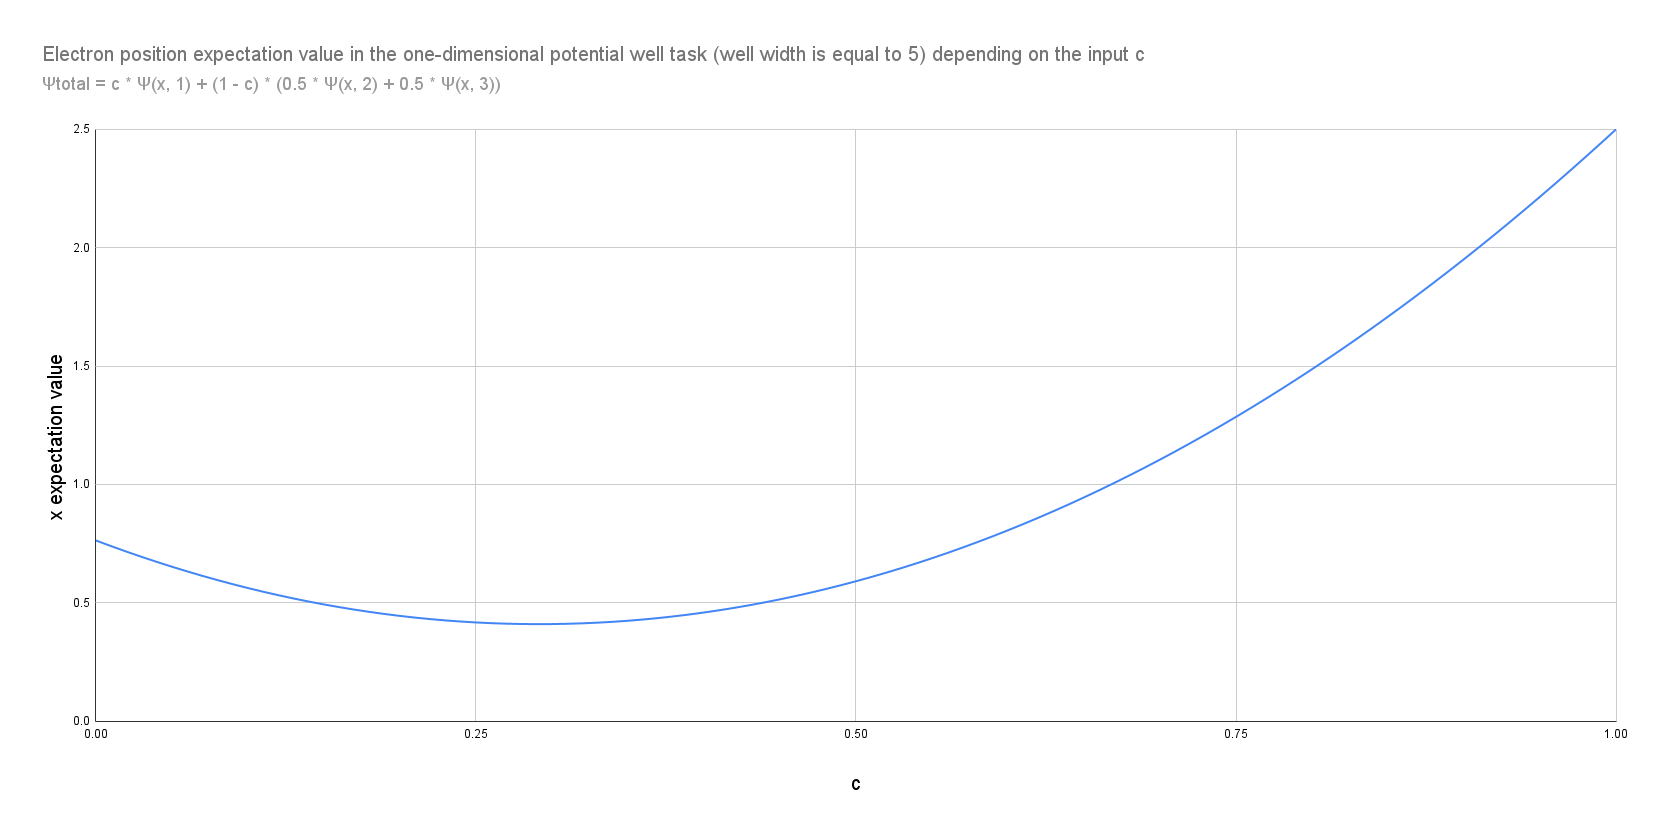
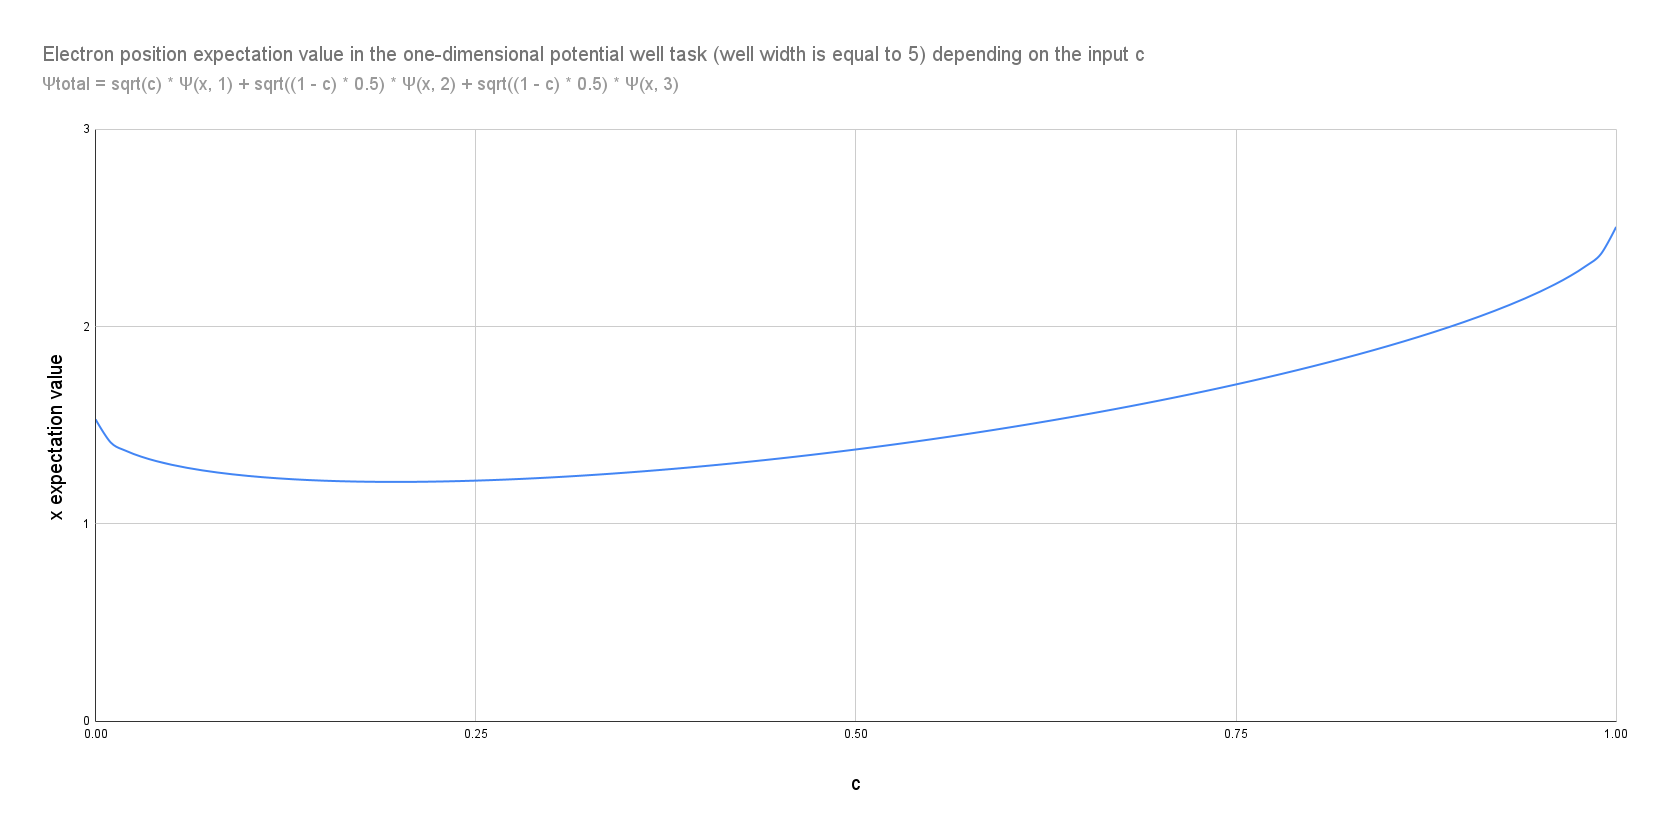
Fixed wavefunction normalization, updated plots

diff --git a/Sources/proxima/main.swift b/Sources/proxima/main.swift
@@ -15,6 +15,35 @@ group.enter(1)
 
 Task {
     //
+    // Check wavefunction normalization properties
+    //
+    // let c = 0.7
+
+    // let wellModel = OneDimensionalPotentialWellAnalyticModel(length: 5)
+
+    // let firstWaveFunction = wellModel.getWaveFunction(n: 1)
+    // let secondWaveFunction = wellModel.getWaveFunction(n: 3)
+    // let thirdWaveFunction = wellModel.getWaveFunction(n: 2)
+
+    // func waveFunction(_ x: Double) -> Double {
+    //     let k = ((1.0 - c) * 0.5).squareRoot()
+    //     return c.squareRoot() * firstWaveFunction(x) + k * secondWaveFunction(x) + k * thirdWaveFunction(x)
+    //     // return (abs(c - 0.3) ** 2.0) * firstWaveFunction(x) + (abs(c - 0.7) / 2.0) * secondWaveFunction(x) + (1.0 - c ** 2.0 - c / 2.0) * thirdWaveFunction(x)
+    // }
+    
+    // let expectationValue = await integrate({ (x: Double) -> Double in
+    //         waveFunction(x) ** 2.0
+    //     },
+    //     from: 0,
+    //     to: wellModel.a,
+    //     precision: 10000,
+    //     kind: .right,
+    //     nParts: 2
+    // )
+
+    // print(expectationValue)
+
+    //
     // Weight-based
     //
 
@@ -26,7 +55,8 @@ Task {
     //     let thirdWaveFunction = wellModel.getWaveFunction(n: 2)
 
     //     func waveFunction(_ x: Double) -> Double {
-    //         return c * firstWaveFunction(x) + (1.0 - c) * (0.5 * secondWaveFunction(x) + 0.5 * thirdWaveFunction(x))
+    //         let k = ((1.0 - c) * 0.5).squareRoot()
+    //         return c.squareRoot() * firstWaveFunction(x) + k * secondWaveFunction(x) + k * thirdWaveFunction(x)
     //         // return (abs(c - 0.3) ** 2.0) * firstWaveFunction(x) + (abs(c - 0.7) / 2.0) * secondWaveFunction(x) + (1.0 - c ** 2.0 - c / 2.0) * thirdWaveFunction(x)
     //     }
         
@@ -49,53 +79,53 @@ Task {
     // N-based
     //
 
-    // for n in 1..<1000 {
-    //     let wellModel = OneDimensionalPotentialWellAnalyticModel(length: 5)
+    for n in 1..<1000 {
+        let wellModel = OneDimensionalPotentialWellAnalyticModel(length: 5)
 
-    //     let firstWaveFunction = wellModel.getWaveFunction(n: n)
-    //     let secondWaveFunction = wellModel.getWaveFunction(n: (n + 2) % 3)
-    //     let thirdWaveFunction = wellModel.getWaveFunction(n: (n + 4) % 5)
+        let firstWaveFunction = wellModel.getWaveFunction(n: n)
+        let secondWaveFunction = wellModel.getWaveFunction(n: (n + 2) % 3)
+        let thirdWaveFunction = wellModel.getWaveFunction(n: (n + 4) % 5)
 
-    //     func waveFunction(_ x: Double) -> Double {
-    //         return 0.2 * firstWaveFunction(x) + 0.3 * secondWaveFunction(x) + 0.5 * thirdWaveFunction(x)
-    //     }
-        
-    //     let expectationValue = await integrate({ (x: Double) -> Double in
-    //             let wavefunctionValue = waveFunction(x)
-    //             return x * (wavefunctionValue ** 2.0)
-    //         },
-    //         from: 0,
-    //         to: wellModel.a,
-    //         precision: 1000,
-    //         kind: .right,
-    //         nParts: 2
-    //     )
-        
-    //     // print("When n = \(n) the expectation value of the electron's coordinate is \(String(format: "%.3f", expectationValue))")
-    //     print("\(n)\t\(expectationValue)")
-    // }
-    
-    print()
-    print("Compute sphere volume using cartesian system without concurrency:")
-    print()
-
-    _ = await testPerformanceAndPrecision(
-        min: 1000, max: 10000, step: 1000, label: "sphere volume computation", ref: 4.0 / 3.0 * Double.pi * 8.0
-    ) { precision in
-        computeSphereVolumeUsingCartesianSystem(2.0, precision: precision, kind: .right)
-    }
-
-    for nParts in 2..<11 {
-        print()
-        print("Compute sphere volume using cartesian system with concurrency (nParts = \(nParts)):")
-        print()
-
-        _ = await testPerformanceAndPrecision(
-            min: 1000, max: 10000, step: 1000, label: "sphere volume computation", ref: 4.0 / 3.0 * Double.pi * 8.0
-        ) { precision in
-            await computeSphereVolumeUsingCartesianSystemWithConcurrency(2.0, precision: precision, kind: .right, nParts: nParts)
+        func waveFunction(_ x: Double) -> Double {
+            return 0.2.squareRoot() * firstWaveFunction(x) + 0.3.squareRoot() * secondWaveFunction(x) + 0.5.squareRoot() * thirdWaveFunction(x)
         }
+        
+        let expectationValue = await integrate({ (x: Double) -> Double in
+                let wavefunctionValue = waveFunction(x)
+                return x * (wavefunctionValue ** 2.0)
+            },
+            from: 0,
+            to: wellModel.a,
+            precision: 1000,
+            kind: .right,
+            nParts: 2
+        )
+        
+        // print("When n = \(n) the expectation value of the electron's coordinate is \(String(format: "%.3f", expectationValue))")
+        print("\(n)\t\(expectationValue)")
     }
+    
+    // print()
+    // print("Compute sphere volume using cartesian system without concurrency:")
+    // print()
+
+    // _ = await testPerformanceAndPrecision(
+    //     min: 1000, max: 10000, step: 1000, label: "sphere volume computation", ref: 4.0 / 3.0 * Double.pi * 8.0
+    // ) { precision in
+    //     computeSphereVolumeUsingCartesianSystem(2.0, precision: precision, kind: .right)
+    // }
+
+    // for nParts in 2..<11 {
+    //     print()
+    //     print("Compute sphere volume using cartesian system with concurrency (nParts = \(nParts)):")
+    //     print()
+
+    //     _ = await testPerformanceAndPrecision(
+    //         min: 1000, max: 10000, step: 1000, label: "sphere volume computation", ref: 4.0 / 3.0 * Double.pi * 8.0
+    //     ) { precision in
+    //         await computeSphereVolumeUsingCartesianSystemWithConcurrency(2.0, precision: precision, kind: .right, nParts: nParts)
+    //     }
+    // }
     
     group.leave()
 }
